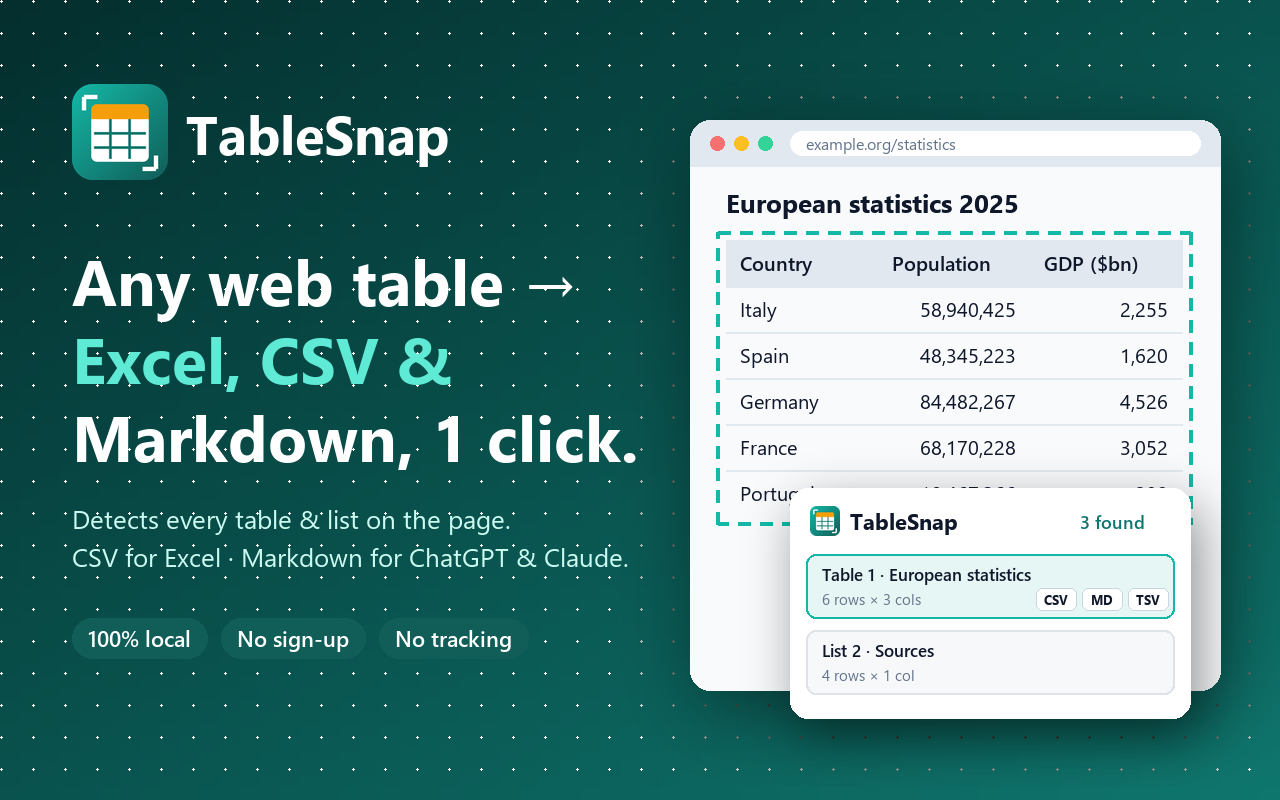
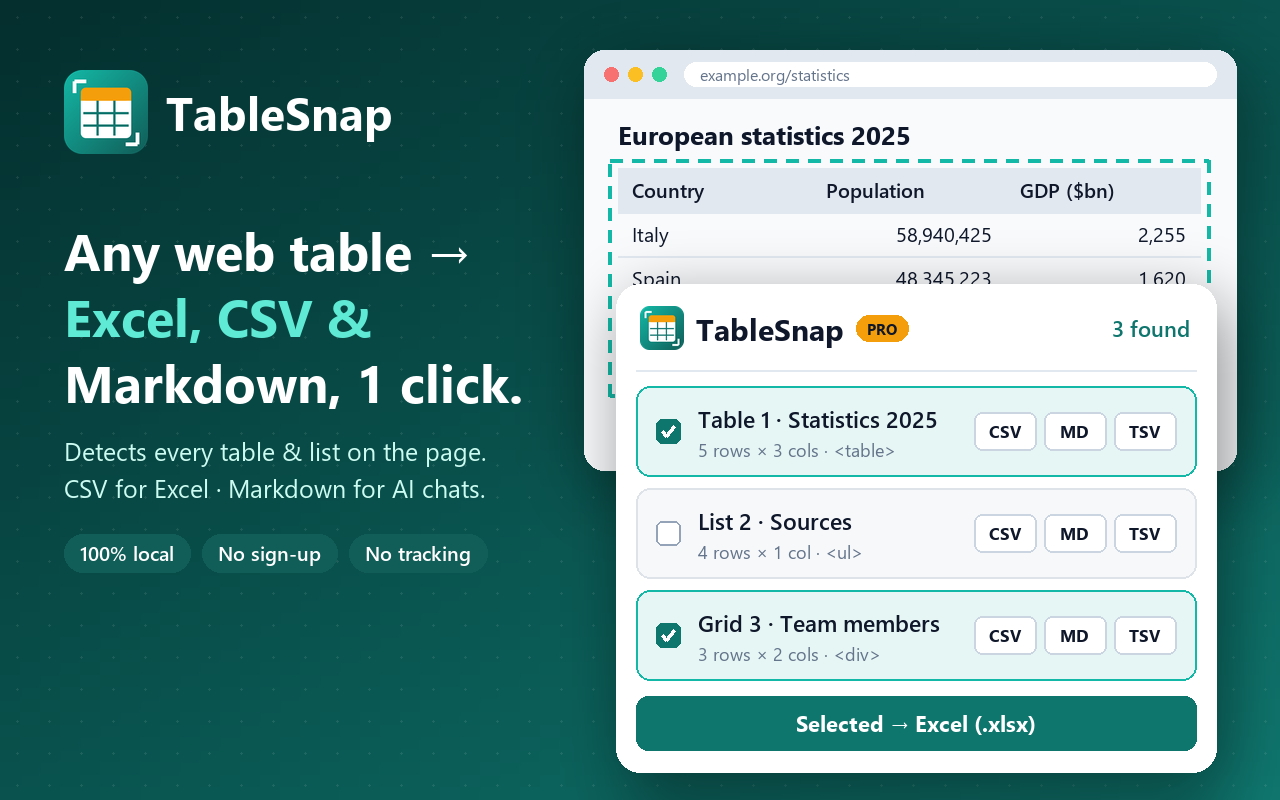
Improve landing UI and promo assets

diff --git a/docs/index.html b/docs/index.html
@@ -29,7 +29,9 @@
       --brand: #2dd4bf; --brand-strong: #5eead4; --brand-soft: #10302d;
     }
     * { box-sizing: border-box; }
-    body { margin: 0; background: var(--bg); color: var(--text); font: 17px/1.6 "Segoe UI", system-ui, -apple-system, Roboto, sans-serif; }
+    body { margin: 0; background: var(--bg); color: var(--text); font: 17px/1.6 system-ui, -apple-system, BlinkMacSystemFont, "Segoe UI", Roboto, sans-serif; -webkit-font-smoothing: antialiased; }
+    h1, h2, h3, button, input, select, textarea { font-family: inherit; }
+    code { font-family: ui-monospace, "Cascadia Mono", Consolas, "SF Mono", Menlo, monospace; }
     a { color: var(--brand); }
     .wrap { max-width: 1080px; margin: 0 auto; padding: 0 16px; }
     header.hero { background: linear-gradient(135deg, var(--hero-from), var(--hero-to)); color: #fff; padding: 28px 0 64px; }
@@ -47,7 +49,43 @@
     .btn-light { background: #fff; color: #0b5f58; }
     .btn-accent { background: var(--accent); color: #1b1300; }
     .btn-outline { border: 2px solid rgba(255,255,255,.6); color: #fff; }
-    .hero img.shot { width: 100%; border-radius: 14px; box-shadow: 0 20px 50px rgba(0,0,0,.35); }
+    /* Hero mockup: pure HTML/CSS so it stays sharp on any screen density. Fixed light palette = a depiction of the real UI. */
+    .mock { position: relative; padding-bottom: 150px; font-size: 14px; line-height: 1.35; color: #0f172a; }
+    .mock-browser { background: #f8fafc; border-radius: 14px; overflow: hidden; box-shadow: 0 24px 60px rgba(0,0,0,.35); }
+    .mock-bar { display: flex; align-items: center; gap: 12px; background: #e2e8f0; padding: 10px 14px; }
+    .mock-dots { display: flex; gap: 6px; }
+    .mock-dots i { width: 11px; height: 11px; border-radius: 50%; background: #f87171; }
+    .mock-dots i:nth-child(2) { background: #fbbf24; }
+    .mock-dots i:nth-child(3) { background: #34d399; }
+    .mock-url { flex: 1; background: #fff; border-radius: 999px; padding: 3px 12px; color: #64748b; font-size: 12px; white-space: nowrap; overflow: hidden; text-overflow: ellipsis; }
+    .mock-page { padding: 16px 18px 20px; }
+    .mock-page h4 { margin: 0 0 12px; font-size: 17px; }
+    .mock-table { width: 100%; border-collapse: collapse; outline: 2.5px dashed #14b8a6; outline-offset: 5px; border-radius: 4px; }
+    .mock-table th { background: #e2e8f0; font-weight: 600; }
+    .mock-table th, .mock-table td { padding: 7px 10px; text-align: left; border-bottom: 1px solid #e2e8f0; white-space: nowrap; }
+    .mock-table td:not(:first-child), .mock-table th:not(:first-child) { text-align: right; font-variant-numeric: tabular-nums; }
+    .mock-popup { position: absolute; right: -14px; bottom: 0; width: min(350px, 92%); background: #fff; border-radius: 14px; box-shadow: 0 18px 50px rgba(2,24,22,.45); padding: 12px; }
+    .mp-head { display: flex; align-items: center; gap: 8px; padding: 2px 2px 10px; border-bottom: 1px solid #e2e8f0; margin-bottom: 10px; }
+    .mp-head img { width: 22px; height: 22px; }
+    .mp-head b { font-size: 15px; }
+    .mp-pro { background: #f59e0b; color: #1b1300; font-size: 10px; font-weight: 800; border-radius: 999px; padding: 1px 7px; letter-spacing: .5px; }
+    .mp-found { margin-left: auto; color: #0f766e; font-weight: 600; font-size: 13px; }
+    .mp-item { display: flex; align-items: center; gap: 10px; border: 1px solid #dde3e8; background: #f6f8fa; border-radius: 10px; padding: 8px 10px; margin-bottom: 8px; }
+    .mp-item.on { border-color: #14b8a6; background: #e6f6f4; }
+    .mp-check { width: 15px; height: 15px; border: 1.5px solid #94a3b8; border-radius: 4px; flex-shrink: 0; background: #fff; }
+    .mp-item.on .mp-check { background: #0f766e; border-color: #0f766e; box-shadow: inset 0 0 0 3px #fff; }
+    .mp-info { flex: 1; min-width: 0; }
+    .mp-title { font-weight: 600; white-space: nowrap; overflow: hidden; text-overflow: ellipsis; }
+    .mp-meta { color: #5b6b7c; font-size: 12px; }
+    .mp-chips { display: flex; gap: 4px; flex-shrink: 0; }
+    .mp-chips span { border: 1px solid #cbd5e1; background: #fff; border-radius: 6px; padding: 2px 6px; font-size: 11px; font-weight: 700; }
+    .mp-btn { margin-top: 4px; background: #0f766e; color: #fff; text-align: center; font-weight: 700; border-radius: 9px; padding: 8px; }
+    @media (max-width: 480px) {
+      .mock { font-size: 12.5px; padding-bottom: 170px; }
+      .mock-table th, .mock-table td { padding: 6px 7px; }
+      .mock-popup { right: 0; }
+      .mp-chips span:nth-child(3) { display: none; }
+    }
     .badges { display: flex; gap: 10px; flex-wrap: wrap; margin-top: 22px; font-size: 14px; }
     .badges span { background: rgba(255,255,255,.12); padding: 4px 12px; border-radius: 999px; }
     section { padding: 64px 0; }
@@ -101,7 +139,29 @@
           </div>
           <div class="badges"><span>100% local processing</span><span>No account</span><span>No tracking</span><span>6 languages</span></div>
         </div>
-        <img class="shot" src="assets/promo_1.png" alt="TableSnap popup listing the tables detected on a statistics page" width="1280" height="800">
+        <div class="mock" role="img" aria-label="TableSnap popup open over a statistics page, with the detected table highlighted">
+          <div class="mock-browser" aria-hidden="true">
+            <div class="mock-bar"><span class="mock-dots"><i></i><i></i><i></i></span><span class="mock-url">example.org/statistics</span></div>
+            <div class="mock-page">
+              <h4>European statistics 2025</h4>
+              <table class="mock-table">
+                <thead><tr><th>Country</th><th>Population</th><th>GDP ($bn)</th></tr></thead>
+                <tbody>
+                  <tr><td>Italy</td><td>58,940,425</td><td>2,255</td></tr>
+                  <tr><td>Spain</td><td>48,345,223</td><td>1,620</td></tr>
+                  <tr><td>Germany</td><td>84,482,267</td><td>4,526</td></tr>
+                  <tr><td>France</td><td>68,170,228</td><td>3,052</td></tr>
+                </tbody>
+              </table>
+            </div>
+          </div>
+          <div class="mock-popup" aria-hidden="true">
+            <div class="mp-head"><img src="assets/icon128.png" alt=""><b>TableSnap</b><span class="mp-pro">PRO</span><span class="mp-found">3 found</span></div>
+            <div class="mp-item on"><span class="mp-check"></span><div class="mp-info"><div class="mp-title">Table 1 · Statistics 2025</div><div class="mp-meta">5 rows × 3 cols</div></div><div class="mp-chips"><span>CSV</span><span>MD</span><span>TSV</span></div></div>
+            <div class="mp-item"><span class="mp-check"></span><div class="mp-info"><div class="mp-title">List 2 · Sources</div><div class="mp-meta">4 rows × 1 col</div></div><div class="mp-chips"><span>CSV</span><span>MD</span><span>TSV</span></div></div>
+            <div class="mp-btn">Selected → Excel (.xlsx)</div>
+          </div>
+        </div>
       </div>
     </div>
   </header>

diff --git a/docs/privacy.html b/docs/privacy.html
@@ -14,7 +14,8 @@
     }
     :root[data-theme="dark"] { --bg: #0d1217; --surface: #151d24; --border: #263340; --text: #e6edf3; --muted: #95a4b4; --brand: #2dd4bf; }
     * { box-sizing: border-box; }
-    body { margin: 0; background: var(--bg); color: var(--text); font: 17px/1.65 "Segoe UI", system-ui, -apple-system, Roboto, sans-serif; }
+    body { margin: 0; background: var(--bg); color: var(--text); font: 17px/1.65 system-ui, -apple-system, BlinkMacSystemFont, "Segoe UI", Roboto, sans-serif; }
+    code { font-family: ui-monospace, "Cascadia Mono", Consolas, "SF Mono", Menlo, monospace; }
     main { max-width: 760px; margin: 0 auto; padding: 32px 16px 64px; }
     a { color: var(--brand); }
     header { display: flex; align-items: center; gap: 12px; margin-bottom: 24px; }

diff --git a/scripts/generate_assets.py b/scripts/generate_assets.py
@@ -56,11 +56,39 @@ FONT_CANDIDATES = {
 }
 
 
-def font(kind: str, size: int):
+_FONT_CACHE: dict = {}
+
+
+def font(kind: str, size: int) -> ImageFont.FreeTypeFont:
+    """TrueType only (never the bitmap fallback): glyphs render at true 1:1 proportions at any size."""
+    key = (kind, size)
+    if key in _FONT_CACHE:
+        return _FONT_CACHE[key]
     for path in FONT_CANDIDATES[kind]:
         if Path(path).exists():
-            return ImageFont.truetype(path, size)
-    return ImageFont.load_default(size=size)
+            _FONT_CACHE[key] = ImageFont.truetype(path, size, layout_engine=ImageFont.Layout.BASIC)
+            return _FONT_CACHE[key]
+    fallback = ImageFont.load_default(size=size)  # Pillow >= 10.1 bundles a FreeType font
+    if not isinstance(fallback, ImageFont.FreeTypeFont):
+        raise SystemExit(f"No TrueType font found for '{kind}'. Install DejaVu or Segoe UI fonts.")
+    _FONT_CACHE[key] = fallback
+    return fallback
+
+
+def ellipsize(d, text: str, fnt, max_width: int) -> str:
+    """Shortens text with '…' instead of ever squeezing it horizontally."""
+    if d.textlength(text, font=fnt) <= max_width:
+        return text
+    while text and d.textlength(text + "…", font=fnt) > max_width:
+        text = text[:-1]
+    return text.rstrip() + "…"
+
+
+def save_exact(img: Image.Image, path: Path, size: tuple[int, int]) -> None:
+    """Guards against any accidental non-uniform scaling: the canvas must already be the target size."""
+    if img.size != size:
+        raise SystemExit(f"{path.name}: canvas {img.size} != {size} — refusing to stretch")
+    img.convert("RGB").save(path, optimize=True)
 
 
 def fit_font(d, texts, kind: str, max_size: int, max_width: int):
@@ -186,62 +214,95 @@ DATA = [
 ]
 
 
+def draw_popup_mock(img: Image.Image, px: int, py: int, w: int, h: int) -> None:
+    """Large, readable TableSnap popup (text 18-30 px at native 1:1 resolution)."""
+    shadowed_card(img, (px, py, px + w, py + h), radius=24, fill=WHITE, shadow=30)
+    d = ImageDraw.Draw(img)
+    img.alpha_composite(draw_icon(44), (px + 24, py + 22))
+    f_brand = font("bold", 30)
+    d.text((px + 80, py + 44), "TableSnap", font=f_brand, fill=INK, anchor="lm")
+    bx = px + 80 + d.textlength("TableSnap", font=f_brand) + 12
+    d.rounded_rectangle([bx, py + 31, bx + 52, py + 57], radius=13, fill=AMBER)
+    d.text((bx + 26, py + 44), "PRO", font=font("bold", 15), fill=INK, anchor="mm")
+    d.text((px + w - 26, py + 44), "3 found", font=font("semibold", 22), fill=TEAL_700, anchor="rm")
+    d.line([(px + 20, py + 86), (px + w - 20, py + 86)], fill=(226, 232, 240), width=2)
+
+    items = (("Table 1 · Statistics 2025", "5 rows × 3 cols · <table>", True),
+             ("List 2 · Sources", "4 rows × 1 col · <ul>", False),
+             ("Grid 3 · Team members", "3 rows × 2 cols · <div>", True))
+    f_title, f_meta, f_chip = font("semibold", 23), font("regular", 18), font("bold", 17)
+    chip_w, chip_h, gap = 62, 38, 8
+    for i, (title, meta, on) in enumerate(items):
+        yy = py + 102 + i * 102
+        d.rounded_rectangle([px + 20, yy, px + w - 20, yy + 90], radius=14,
+                            fill=(230, 246, 244) if on else (246, 248, 250),
+                            outline=TEAL_500 if on else (221, 227, 232), width=2)
+        cb = (px + 40, yy + 33, px + 64, yy + 57)
+        if on:
+            d.rounded_rectangle(cb, radius=6, fill=TEAL_700)
+            d.line([(cb[0] + 6, cb[1] + 12), (cb[0] + 10, cb[1] + 17), (cb[0] + 18, cb[1] + 7)], fill=WHITE, width=3)
+        else:
+            d.rounded_rectangle(cb, radius=6, fill=WHITE, outline=(148, 163, 184), width=2)
+        chips_x0 = px + w - 40 - (3 * chip_w + 2 * gap)
+        tx = px + 82
+        d.text((tx, yy + 32), ellipsize(d, title, f_title, chips_x0 - tx - 16), font=f_title, fill=INK, anchor="lm")
+        d.text((tx, yy + 63), ellipsize(d, meta, f_meta, chips_x0 - tx - 16), font=f_meta, fill=SLATE, anchor="lm")
+        for k, lab in enumerate(("CSV", "MD", "TSV")):
+            cx = chips_x0 + k * (chip_w + gap)
+            d.rounded_rectangle([cx, yy + 26, cx + chip_w, yy + 26 + chip_h], radius=8, fill=WHITE, outline=(203, 213, 225), width=2)
+            d.text((cx + chip_w / 2, yy + 26 + chip_h / 2), lab, font=f_chip, fill=INK, anchor="mm")
+    by = py + 102 + 3 * 102 + 4
+    d.rounded_rectangle([px + 20, by, px + w - 20, by + 54], radius=12, fill=TEAL_700)
+    d.text((px + w / 2, by + 27), "Selected → Excel (.xlsx)", font=font("bold", 22), fill=WHITE, anchor="mm")
+
+
 def promo_hero(path: Path):
     W, H = 1280, 800
     img = gradient((W, H), TEAL_900, TEAL_700).convert("RGBA")
+    dots = Image.new("RGBA", (W, H), (0, 0, 0, 0))
+    dd = ImageDraw.Draw(dots)
+    for yy in range(16, H, 32):
+        for xx in range(16, W, 32):
+            dd.ellipse([xx, yy, xx + 2, yy + 2], fill=(255, 255, 255, 22))
+    img.alpha_composite(dots)
     d = ImageDraw.Draw(img)
-    # dotted texture
-    for yy in range(0, H, 32):
-        for xx in range(0, W, 32):
-            d.ellipse([xx, yy, xx + 2, yy + 2], fill=(255, 255, 255, 18))
-    icon = draw_icon(128).resize((96, 96), Image.LANCZOS)
-    img.alpha_composite(icon, (72, 84))
-    d.text((186, 132), "TableSnap", font=font("bold", 54), fill=WHITE, anchor="lm")
-    max_w = 580
-    lines = [("Any web table →", WHITE), ("Excel, CSV &", TEAL_300), ("Markdown, 1 click.", WHITE)]
-    head = fit_font(d, [l for l, _ in lines], "bold", 64, max_w)
-    for i, (text, color) in enumerate(lines):
-        d.text((72, 236 + i * (head.size + 14)), text, font=head, fill=color)
-    sub_lines = ["Detects every table & list on the page.", "CSV for Excel · Markdown for ChatGPT & Claude."]
-    body = fit_font(d, sub_lines, "regular", 26, max_w)
-    for i, text in enumerate(sub_lines):
-        d.text((72, 500 + i * 38), text, font=body, fill=(204, 251, 241))
-    x = 72
-    for label in ("100% local", "No sign-up", "No tracking"):
-        x = pill(d, (x, 618), label, font("semibold", 22), TEAL_800, WHITE) + 14
 
-    # browser mock
-    bx0, by0, bx1, by1 = 690, 120, 1220, 690
+    # left column: brand, headline, subtitle, pills (max 470 px wide, never overlaps the mockups)
+    left, max_w = 64, 470
+    img.alpha_composite(draw_icon(84), (left, 70))
+    d.text((left + 102, 112), "TableSnap", font=font("bold", 46), fill=WHITE, anchor="lm")
+    lines = [("Any web table →", WHITE), ("Excel, CSV &", TEAL_300), ("Markdown, 1 click.", WHITE)]
+    head = fit_font(d, [l for l, _ in lines], "bold", 62, max_w)
+    y = 214
+    for text, color in lines:
+        d.text((left, y), text, font=head, fill=color)
+        y += head.size + 14
+    sub = ["Detects every table & list on the page.", "CSV for Excel · Markdown for AI chats."]
+    body = fit_font(d, sub, "regular", 25, max_w)
+    y += 22
+    for text in sub:
+        d.text((left, y), text, font=body, fill=(204, 251, 241))
+        y += body.size + 12
+    x, y = left, y + 26
+    for label in ("100% local", "No sign-up", "No tracking"):
+        x = pill(d, (x, y), label, font("semibold", 20), TEAL_800, WHITE) + 12
+
+    # browser window with the highlighted table
+    bx0, by0, bx1, by1 = 584, 50, 1236, 470
     shadowed_card(img, (bx0, by0, bx1, by1), radius=20, fill=PAPER)
     d = ImageDraw.Draw(img)
-    d.rounded_rectangle([bx0, by0, bx1, by0 + 46], radius=20, fill=(226, 232, 240))
-    d.rectangle([bx0, by0 + 26, bx1, by0 + 46], fill=(226, 232, 240))
+    d.rounded_rectangle([bx0, by0, bx1, by0 + 48], radius=20, fill=(226, 232, 240))
+    d.rectangle([bx0, by0 + 28, bx1, by0 + 48], fill=(226, 232, 240))
     for i, c in enumerate(((248, 113, 113), (251, 191, 36), (52, 211, 153))):
-        d.ellipse([bx0 + 20 + i * 24, by0 + 16, bx0 + 34 + i * 24, by0 + 30], fill=c)
-    d.rounded_rectangle([bx0 + 100, by0 + 11, bx1 - 20, by0 + 35], radius=12, fill=WHITE)
-    d.text((bx0 + 116, by0 + 23), "example.org/statistics", font=font("regular", 16), fill=SLATE, anchor="lm")
-    d.text((bx0 + 36, by0 + 82), "European statistics 2025", font=font("bold", 26), fill=INK, anchor="lm")
-    draw_mock_table(d, bx0 + 36, by0 + 120, 152, 46, DATA, highlight=True)
-    # popup mock
-    px0, py0 = 790, 488
-    shadowed_card(img, (px0, py0, px0 + 400, py0 + 230), radius=18, fill=WHITE, shadow=24)
-    d = ImageDraw.Draw(img)
-    img.alpha_composite(draw_icon(48).resize((30, 30), Image.LANCZOS), (px0 + 20, py0 + 18))
-    d.text((px0 + 60, py0 + 33), "TableSnap", font=font("bold", 22), fill=INK, anchor="lm")
-    d.text((px0 + 290, py0 + 33), "3 found", font=font("semibold", 18), fill=TEAL_700, anchor="lm")
-    for i, (title, meta) in enumerate((("Table 1 · European statistics", "6 rows × 3 cols"), ("List 2 · Sources", "4 rows × 1 col"))):
-        yy = py0 + 66 + i * 76
-        d.rounded_rectangle([px0 + 16, yy, px0 + 384, yy + 64], radius=10,
-                            fill=(230, 246, 244) if i == 0 else (246, 248, 250), outline=TEAL_500 if i == 0 else (221, 227, 232), width=2)
-        d.text((px0 + 32, yy + 20), title, font=font("semibold", 17), fill=INK, anchor="lm")
-        d.text((px0 + 32, yy + 44), meta, font=font("regular", 15), fill=SLATE, anchor="lm")
-        cx = px0 + 246
-        for lab in ("CSV", "MD", "TSV"):
-            if i == 0:
-                d.rounded_rectangle([cx, yy + 34, cx + 40, yy + 56], radius=6, fill=WHITE, outline=(203, 213, 225))
-                d.text((cx + 20, yy + 45), lab, font=font("bold", 13), fill=INK, anchor="mm")
-            cx += 46
-    img.convert("RGB").save(path, optimize=True)
+        d.ellipse([bx0 + 20 + i * 24, by0 + 17, bx0 + 34 + i * 24, by0 + 31], fill=c)
+    d.rounded_rectangle([bx0 + 100, by0 + 12, bx1 - 20, by0 + 36], radius=12, fill=WHITE)
+    d.text((bx0 + 116, by0 + 24), "example.org/statistics", font=font("regular", 16), fill=SLATE, anchor="lm")
+    d.text((bx0 + 34, by0 + 84), "European statistics 2025", font=font("bold", 26), fill=INK, anchor="lm")
+    draw_mock_table(d, bx0 + 34, by0 + 118, (bx1 - bx0 - 68) // 3, 44, DATA[:5], highlight=True)
+
+    # big popup in front
+    draw_popup_mock(img, 616, 284, 600, 488)
+    save_exact(img, path, (W, H))
 
 
 def promo_formats(path: Path):
@@ -292,18 +353,18 @@ def promo_formats(path: Path):
     x = 330
     for label in ("Runs 100% in your browser", "No account", "One-time Pro license"):
         x = pill(d, (x, 700), label, font("semibold", 20), (204, 251, 241), TEAL_800) + 16
-    img.convert("RGB").save(path, optimize=True)
+    save_exact(img, path, (W, H))
 
 
 def small_tile(path: Path):
     W, H = 440, 280
     img = gradient((W, H), TEAL_800, TEAL_500).convert("RGBA")
     d = ImageDraw.Draw(img)
-    img.alpha_composite(draw_icon(128).resize((88, 88), Image.LANCZOS), (36, 40))
+    img.alpha_composite(draw_icon(88), (36, 40))
     d.text((140, 84), "TableSnap", font=font("bold", 44), fill=WHITE, anchor="lm")
     d.text((36, 170), "Web tables → Excel,", font=font("bold", 28), fill=WHITE)
     d.text((36, 206), "CSV & Markdown in 1 click", font=font("bold", 28), fill=(204, 251, 241))
-    img.convert("RGB").save(path, optimize=True)
+    save_exact(img, path, (W, H))
 
 
 def main():
